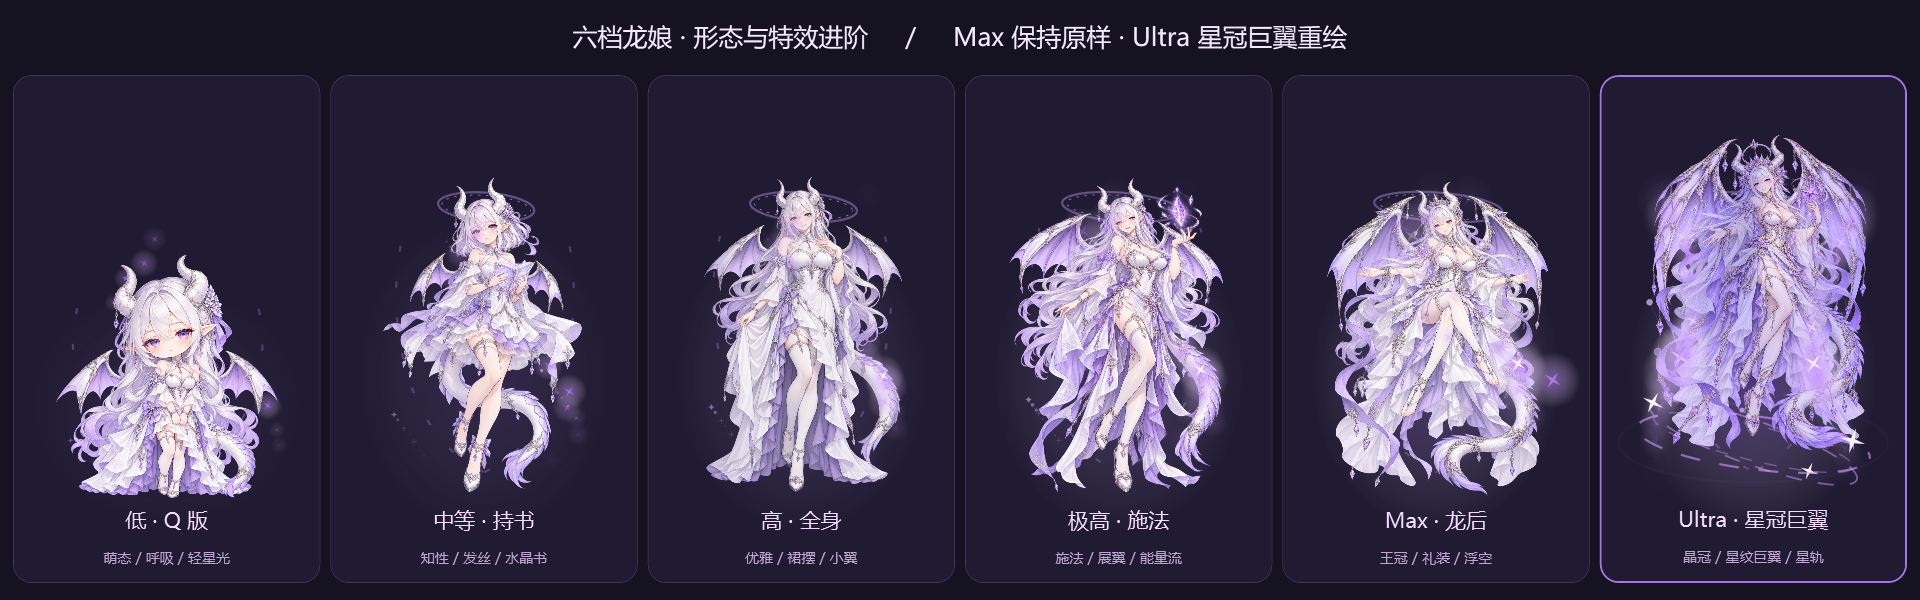
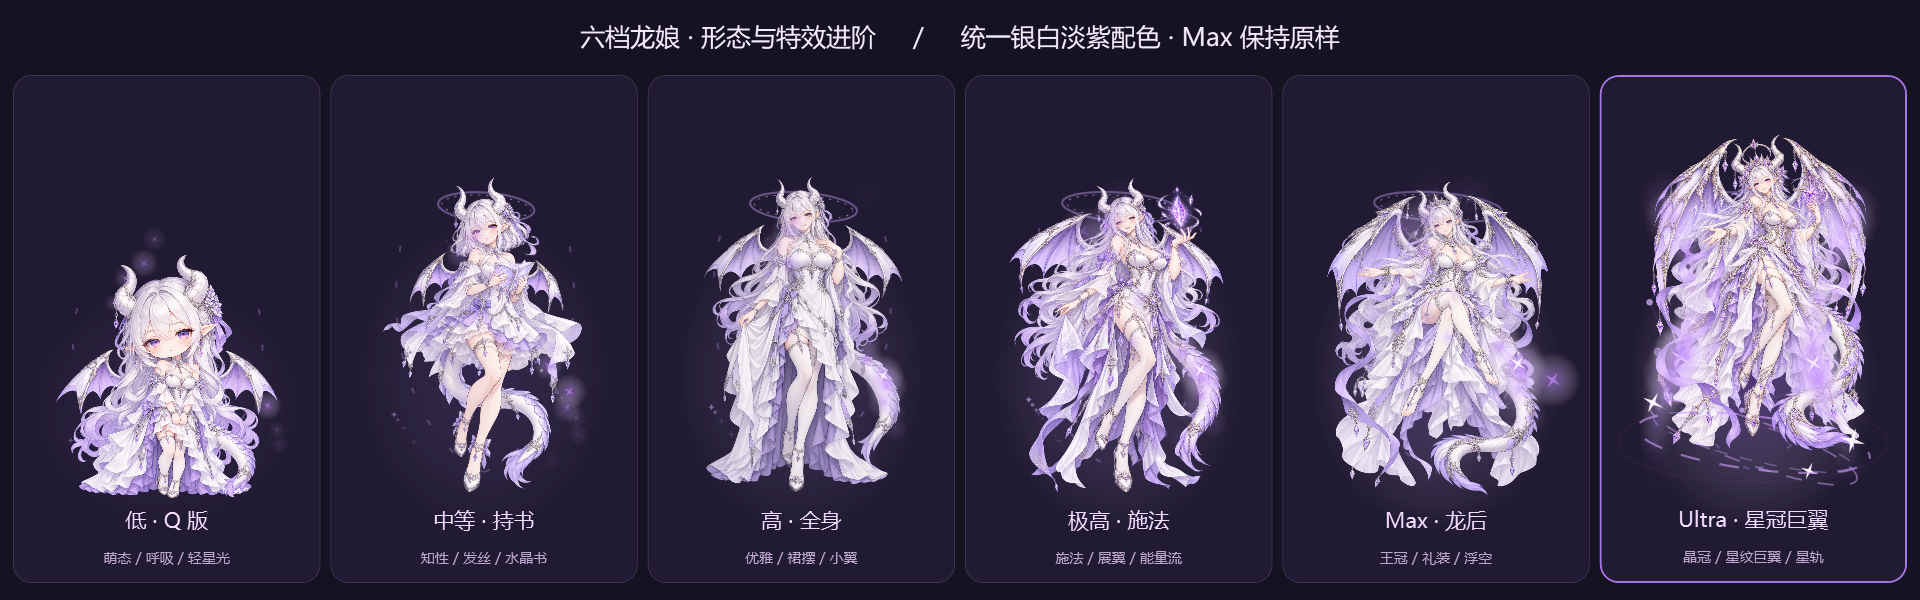
fix: align Ultra lighting with the silver-white lavender palette

Changed region(s): [[0.875, 0.24, 0.9688, 0.75], [0.2812, 0.03, 0.7188, 0.09]]

diff --git a/tests/Comparison.cs b/tests/Comparison.cs
@@ -2,6 +2,6 @@
 class Comparison{
  static Brush B(string c){return new SolidColorBrush((Color)ColorConverter.ConvertFromString(c));}
  static TextBlock Text(string text,double size,string color){return new TextBlock{Text=text,FontSize=size,FontFamily=new FontFamily("Microsoft YaHei UI"),Foreground=B(color),TextAlignment=TextAlignment.Center,Margin=new Thickness(2,5,2,2)};}
- [STAThread]static void Main(string[] args){string root=Path.GetFullPath(args[0]);string output=Path.Combine(root,"out","renders");Directory.CreateDirectory(output);foreach(bool dark in new[]{false,true}){var outer=new Grid{Width=1920,Height=600,Background=B(dark?"#151222":"#ECE8F4")};outer.RowDefinitions.Add(new RowDefinition{Height=new GridLength(70)});outer.RowDefinitions.Add(new RowDefinition{Height=new GridLength(1,GridUnitType.Star)});var heading=Text("六档龙娘 · 形态与特效进阶     /     Max 保持原样 · Ultra 星冠巨翼重绘",25,dark?"#F5E9FF":"#4D3268");heading.VerticalAlignment=VerticalAlignment.Center;outer.Children.Add(heading);var cards=new Grid{Margin=new Thickness(8,0,8,12)};Grid.SetRow(cards,1);outer.Children.Add(cards);string[] forms={"chibi","medium","full","xhigh","max","ultra"};string[] labels={"低 · Q 版","中等 · 持书","高 · 全身","极高 · 施法","Max · 龙后","Ultra · 星冠巨翼"};string[] notes={"萌态 / 呼吸 / 轻星光","知性 / 发丝 / 水晶书","优雅 / 裙摆 / 小翼","施法 / 展翼 / 能量流","王冠 / 礼装 / 浮空","晶冠 / 星纹巨翼 / 星轨"};for(int i=0;i<6;i++){cards.ColumnDefinitions.Add(new ColumnDefinition());var content=new Grid();content.RowDefinitions.Add(new RowDefinition{Height=new GridLength(1,GridUnitType.Star)});content.RowDefinitions.Add(new RowDefinition{Height=new GridLength(42)});content.RowDefinitions.Add(new RowDefinition{Height=new GridLength(38)});var border=new Border{CornerRadius=new CornerRadius(18),Margin=new Thickness(5),Background=B(dark?"#211A33":"#FAF8FF"),BorderBrush=B(i==5?"#A575E3":dark?"#463453":"#D8CCE6"),BorderThickness=new Thickness(i==5?2:1),Child=content};Grid.SetColumn(border,i);cards.Children.Add(border);var p=new AnimatedPortrait{MotionEnabled=false,Margin=new Thickness(4)};p.Form=forms[i];p.Source=new BitmapImage(new Uri(Path.Combine(root,"assets",forms[i]+".png")));typeof(AnimatedPortrait).GetField("switchedAt",BindingFlags.NonPublic|BindingFlags.Instance).SetValue(p,-100.0);content.Children.Add(p);var label=Text(labels[i],21,dark?"#F2DBFF":"#613781");Grid.SetRow(label,1);content.Children.Add(label);var note=Text(notes[i],14,dark?"#BDA7CF":"#8B739E");Grid.SetRow(note,2);content.Children.Add(note);outer.Measure(new Size(1920,600));outer.Arrange(new Rect(0,0,1920,600));outer.UpdateLayout();p.Step(1.7);}
+ [STAThread]static void Main(string[] args){string root=Path.GetFullPath(args[0]);string output=Path.Combine(root,"out","renders");Directory.CreateDirectory(output);foreach(bool dark in new[]{false,true}){var outer=new Grid{Width=1920,Height=600,Background=B(dark?"#151222":"#ECE8F4")};outer.RowDefinitions.Add(new RowDefinition{Height=new GridLength(70)});outer.RowDefinitions.Add(new RowDefinition{Height=new GridLength(1,GridUnitType.Star)});var heading=Text("六档龙娘 · 形态与特效进阶     /     统一银白淡紫配色 · Max 保持原样",25,dark?"#F5E9FF":"#4D3268");heading.VerticalAlignment=VerticalAlignment.Center;outer.Children.Add(heading);var cards=new Grid{Margin=new Thickness(8,0,8,12)};Grid.SetRow(cards,1);outer.Children.Add(cards);string[] forms={"chibi","medium","full","xhigh","max","ultra"};string[] labels={"低 · Q 版","中等 · 持书","高 · 全身","极高 · 施法","Max · 龙后","Ultra · 星冠巨翼"};string[] notes={"萌态 / 呼吸 / 轻星光","知性 / 发丝 / 水晶书","优雅 / 裙摆 / 小翼","施法 / 展翼 / 能量流","王冠 / 礼装 / 浮空","晶冠 / 星纹巨翼 / 星轨"};for(int i=0;i<6;i++){cards.ColumnDefinitions.Add(new ColumnDefinition());var content=new Grid();content.RowDefinitions.Add(new RowDefinition{Height=new GridLength(1,GridUnitType.Star)});content.RowDefinitions.Add(new RowDefinition{Height=new GridLength(42)});content.RowDefinitions.Add(new RowDefinition{Height=new GridLength(38)});var border=new Border{CornerRadius=new CornerRadius(18),Margin=new Thickness(5),Background=B(dark?"#211A33":"#FAF8FF"),BorderBrush=B(i==5?"#A575E3":dark?"#463453":"#D8CCE6"),BorderThickness=new Thickness(i==5?2:1),Child=content};Grid.SetColumn(border,i);cards.Children.Add(border);var p=new AnimatedPortrait{MotionEnabled=false,Margin=new Thickness(4)};p.Form=forms[i];p.Source=new BitmapImage(new Uri(Path.Combine(root,"assets",forms[i]+".png")));typeof(AnimatedPortrait).GetField("switchedAt",BindingFlags.NonPublic|BindingFlags.Instance).SetValue(p,-100.0);content.Children.Add(p);var label=Text(labels[i],21,dark?"#F2DBFF":"#613781");Grid.SetRow(label,1);content.Children.Add(label);var note=Text(notes[i],14,dark?"#BDA7CF":"#8B739E");Grid.SetRow(note,2);content.Children.Add(note);outer.Measure(new Size(1920,600));outer.Arrange(new Rect(0,0,1920,600));outer.UpdateLayout();p.Step(1.7);}
  outer.UpdateLayout();var bitmap=new RenderTargetBitmap(1920,600,96,96,PixelFormats.Pbgra32);bitmap.Render(outer);var enc=new PngBitmapEncoder();enc.Frames.Add(BitmapFrame.Create(bitmap));using(var f=File.Create(Path.Combine(output,dark?"six-forms-dark.png":"six-forms-light.png")))enc.Save(f);}Console.WriteLine("PASS native six-form comparison rendered on light and dark backgrounds");}
 }

diff --git a/src/AnimatedPortrait.cs b/src/AnimatedPortrait.cs
@@ -1,6 +1,7 @@
 using System;using System.Collections.Generic;using System.Diagnostics;using System.Windows;using System.Windows.Controls;using System.Windows.Media;using System.Windows.Media.Imaging;using System.Windows.Media.Media3D;
 namespace DragonCompanion {
 // GPU textured mesh: animate the rendered sprite only. Never edits source images or Codex.
+// All six forms share one light rig so silver-white materials keep the same color family.
 public sealed class AnimatedPortrait:Grid {
  readonly Viewport3D viewport=new Viewport3D();readonly MeshGeometry3D mesh=new MeshGeometry3D();readonly OrthographicCamera camera=new OrthographicCamera();readonly Aura aura;readonly Stars stars;readonly Stopwatch clock=Stopwatch.StartNew();readonly List<Point> rest=new List<Point>();BitmapImage source;string kind="full";double aspect=1,lastFrame=-1;bool attached;double switchedAt=-100,reactedAt=-100;int reaction;public bool EconomyMode;readonly DirectionalLight keyLight=new DirectionalLight(Colors.White,new Vector3D(-.3,-.4,-1));readonly AmbientLight fillLight=new AmbientLight(Color.FromRgb(165,165,180));
  public int Tier{get{return kind=="chibi"?0:kind=="medium"?1:kind=="full"?2:kind=="xhigh"?3:kind=="max"?4:5;}}
@@ -24,7 +25,7 @@ public sealed class AnimatedPortrait:Grid {
  Point[] Eyes(){if(kind=="chibi")return new[]{new Point(.449,.364),new Point(.574,.323)};if(kind=="ultra")return new[]{new Point(.482,.211),new Point(.550,.204)};return new[]{new Point(.465,.155),new Point(.550,.144)};}
  static double G(double u,double v,double x,double y,double rx,double ry){double dx=(u-x)/rx,dy=(v-y)/ry;return Math.Exp(-2.2*(dx*dx+dy*dy));}
  public static double Blink(double t){double phase=t%5.7;if(phase<3.20||phase>3.48)return 0;double p=(phase-3.20)/.28;return Math.Pow(Math.Sin(p*Math.PI),1.3);}
- public void Step(double t){if(rest.Count==0)return;var points=new Point3DCollection(rest.Count);double age=Math.Max(0,clock.Elapsed.TotalSeconds-switchedAt);double burst=age<.85?Math.Sin(age/.85*Math.PI)*(.13+Tier*.012):0;keyLight.Direction=new Vector3D(Math.Sin(t*.75)*.8,-.4,-1);if(kind=="ultra"){fillLight.Color=Color.FromRgb(104,104,124);keyLight.Color=Color.FromRgb((byte)(132+25*(.5+.5*Math.Sin(t*.9))),(byte)(128+22*(.5+.5*Math.Sin(t*.9))),205);}else{fillLight.Color=Color.FromRgb(165,165,180);keyLight.Color=Color.FromRgb((byte)(180+60*(.5+.5*Math.Sin(t*.9))),(byte)(160+60*(.5+.5*Math.Sin(t*.9))),255);}double blink=Blink(t),breath=Math.Sin(t*1.65),wing=Math.Sin(t*(kind=="ultra"?1.7:1.15)),hair=Math.Sin(t*.85);Point[] eyes=kind=="chibi"?Eyes():new Point[0];foreach(var p in rest){double u=p.X,v=p.Y,x=u,y=v;double body=G(u,v,.5,.52,.28,.32);y-=.0028*breath*body;x+=(u-.5)*.006*breath*body;
+ public void Step(double t){if(rest.Count==0)return;var points=new Point3DCollection(rest.Count);double age=Math.Max(0,clock.Elapsed.TotalSeconds-switchedAt);double burst=age<.85?Math.Sin(age/.85*Math.PI)*(.13+Tier*.012):0;keyLight.Direction=new Vector3D(Math.Sin(t*.75)*.8,-.4,-1);fillLight.Color=Color.FromRgb(165,165,180);keyLight.Color=Color.FromRgb((byte)(180+60*(.5+.5*Math.Sin(t*.9))),(byte)(160+60*(.5+.5*Math.Sin(t*.9))),255);double blink=Blink(t),breath=Math.Sin(t*1.65),wing=Math.Sin(t*(kind=="ultra"?1.7:1.15)),hair=Math.Sin(t*.85);Point[] eyes=kind=="chibi"?Eyes():new Point[0];foreach(var p in rest){double u=p.X,v=p.Y,x=u,y=v;double body=G(u,v,.5,.52,.28,.32);y-=.0028*breath*body;x+=(u-.5)*.006*breath*body;
   if(kind=="chibi"){
    x+=.012*Math.Sin(t*1.2+v*4)*G(u,v,.83,.76,.2,.26); // tail sway
    double head=G(u,v,.50,.24,.46,.37),angle=.012*Math.Sin(t*.63);x+=-(v-.30)*angle*head;y+=(u-.5)*angle*head;

diff --git a/src/App.cs b/src/App.cs
@@ -19,7 +19,7 @@ public sealed class VisualWindow:Window {
  void Press(object sender,MouseButtonEventArgs e){if(FromSlider(e.OriginalSource as DependencyObject))return;pressed=true;dragged=false;pressScreen=PointToScreen(e.GetPosition(this));pressLeft=Left;pressTop=Top;CaptureMouse();e.Handled=true;}
  void Move(object sender,MouseEventArgs e){if(!pressed||locked||e.LeftButton!=MouseButtonState.Pressed)return;Point now=PointToScreen(e.GetPosition(this));Vector delta=now-pressScreen;if(!dragged&&delta.Length<6)return;dragged=true;var source=PresentationSource.FromVisual(this);if(source!=null)delta=source.CompositionTarget.TransformFromDevice.Transform(delta);Left=pressLeft+delta.X;Top=pressTop+delta.Y;}
  void Release(object sender,MouseButtonEventArgs e){if(!pressed)return;bool reply=!dragged;Point pt=e.GetPosition(portrait);pressed=false;ReleaseMouseCapture();if(dragged){Clamp();SaveOwnSettings();}else if(reply&&pt.X>=0&&pt.Y>=0&&pt.X<portrait.ActualWidth&&pt.Y<portrait.ActualHeight)portrait.React();e.Handled=true;}
- void WriteDisplayState(string effort,bool inherited,bool connected){string stamp=selected+"/"+effort+"/"+inherited+"/"+connected+"/"+autoMode+"/"+auto.Hint+"/"+economy;if(stamp==stateStamp)return;try{string dir=Path.Combine(root,"runtime");Directory.CreateDirectory(dir);string file=Path.Combine(dir,"display-state.json"),tmp=file+".tmp";File.WriteAllText(tmp,Json.Encode(new{version="1.4.0",readOnly=true,threadId=selected,effort=effort,inherited=inherited,connected=connected,form=DisplayState.Form(effort),motionEnabled=portrait.MotionEnabled,autoFollow=autoMode,followSource=autoMode?auto.Source:"manual",followHint=autoMode?auto.Hint:"手动选择",economy=economy,utc=DateTime.UtcNow.ToString("O")}));if(File.Exists(file))File.Replace(tmp,file,null);else File.Move(tmp,file);stateStamp=stamp;}catch{}}
+ void WriteDisplayState(string effort,bool inherited,bool connected){string stamp=selected+"/"+effort+"/"+inherited+"/"+connected+"/"+autoMode+"/"+auto.Hint+"/"+economy;if(stamp==stateStamp)return;try{string dir=Path.Combine(root,"runtime");Directory.CreateDirectory(dir);string file=Path.Combine(dir,"display-state.json"),tmp=file+".tmp";File.WriteAllText(tmp,Json.Encode(new{version="1.4.1",readOnly=true,threadId=selected,effort=effort,inherited=inherited,connected=connected,form=DisplayState.Form(effort),motionEnabled=portrait.MotionEnabled,autoFollow=autoMode,followSource=autoMode?auto.Source:"manual",followHint=autoMode?auto.Hint:"手动选择",economy=economy,utc=DateTime.UtcNow.ToString("O")}));if(File.Exists(file))File.Replace(tmp,file,null);else File.Move(tmp,file);stateStamp=stamp;}catch{}}
  void LoadCatalog(){try{entries=Catalog.Threads(home);var x=entries.Find(e=>e.Id==selected);if(x!=null)selectedTitle=x.Title;}catch(Exception e){Log("catalog",e.GetType().Name);} }
  void UpdateTarget(){target.Text=(autoMode?"自动 · ":"手动 · ")+selectedTitle;badge.ToolTip="只读跟随："+selectedTitle+"\n不修改 Codex 的模型或思考档位\n点击角色有回应；拖动移动位置\n右键可切换模式、聊天或退出";}
  void SetForm(string k){if(!images.ContainsKey(k))return;if(form!=k){portrait.Form=k;portrait.Source=images[k];form=k;}portrait.Opacity=1;}

diff --git a/docs/architecture.md b/docs/architecture.md
@@ -4,7 +4,7 @@
 - `AutoFollow.cs`：从正在运行的 Codex 安装路径发现宿主；只读解析主窗口日志的 ownerRoutePath。只支持已验证的主窗口及 /local/UUID 路由。读取有大小上限，日志以 ReadWrite/Delete 共享方式短时打开。
 - `DesktopLink.cs`：命名管道连接与超时。唯一允许发出的请求是 initialize 和 thread-follower-read-model-settings。其他请求在发送之前抛出异常；不声明任何聊天所有权，也不处理桌面端分发给其他客户端的工作。
 - `Catalog.cs`：通过 Windows 自带 SQLite 查询有限聊天标题元数据，SQLITE_OPEN_READONLY 并检查 sqlite3_db_readonly。默认档位仅从 CODEX_HOME 的配置只读继承。
-- `AnimatedPortrait.cs`：纹理网格、光照与矢量星光；隐藏时停止动画，最多 30 帧，粒子数量有界。Ultra 使用独立照明和特效分支。
+- `AnimatedPortrait.cs`：纹理网格、光照与矢量星光；隐藏时停止动画，最多 30 帧，粒子数量有界。六档共享照明参数以保持银白、淡紫配色一致；Ultra 保留独立特效分支。
 
 不修改桌面端安装文件、不持有其安装文件句柄、不联网，不与其更新器交互。初始化连接本身仍使用内部桌面协议，因此这里保证的是隔离及失败暂停策略，不是未知未来版本的兼容承诺。
 

diff --git a/形态对比说明.md b/形态对比说明.md
@@ -1,4 +1,4 @@
-# 六档形态对比与调整
+# 六档形态对比与调整
 
 | 档位 | 主要视觉进阶 | 处理 |
 |---|---|---|
@@ -14,3 +14,7 @@
 新 Ultra 强化独立轮廓和材质层次，突出晶冠、巨翼、星纹和法器；降低过曝，星光避开面部与躯干中央，增强脚下轨道和背后星座阵。美观有个人偏好，提供浅色、深色两套同尺寸实际渲染对照，便于判断。
 
 验证：前五档素材哈希不变；三个相同时刻的渲染逐像素不变，包括 Max。六档均通过动态像素变化检查。Ultra 新素材含透明 alpha。显示算法外的聊天跟随、只读白名单和桌面端配置不作改动。
+
+## v1.4.1 配色修正
+
+上一版 Ultra 的独立低亮度、偏蓝灯光使银白衣料显得偏暗偏紫。现在六档共享相同的照明参数；六张原始立绘及 alpha 完全保留，Max 与前四档实际画面保持不变。巨翼、星座阵、点击回应和自动跟随逻辑不变。

diff --git a/docs/verification.md b/docs/verification.md
@@ -28,3 +28,9 @@
 - 未做长期压力、实体多显示器切换及所有 DPI/显卡组合验证。
 - 自动跟随不支持多窗口歧义、远程聊天、非主窗口及未知路由/协议；遇到这些情况会等待而非猜测。
 - 原生思考滑块提交前的临时位置不会逐点跟随。纯视觉预览滑块立即响应，且不修改任何思考设置。
+
+## v1.4.1 配色回归检查
+
+- Ultra 改为与前五档共享同一套照明参数，消除独立低亮度、偏蓝灯光造成的衣料色偏。
+- 六张原始 PNG 的 SHA-256 全部不变，包括 Ultra；前五档在三个时刻的动态渲染像素全部不变。
+- 重新检查深浅背景下的六档对照，22 项离线契约和六档动态渲染通过。

diff --git a/README.md b/README.md
@@ -1,8 +1,10 @@
 # Codex 龙娘思考动态效果
 
-独立的 Windows 桌面龙娘伴随程序：**只读跟随 Codex 当前本地聊天的思考档位**，展示六种形态及动画。当前版本 **1.4.0**。
+独立的 Windows 桌面龙娘伴随程序：**只读跟随 Codex 当前本地聊天的思考档位**，展示六种形态及动画。当前版本 **1.4.1**。
 
 ![六档形态](docs/images/six-forms-dark.png)
+
+v1.4.1 修正 Ultra 偏暗、偏蓝的问题：六档共享银白、淡紫基准照明。现有六张立绘（包括 Max 和 Ultra）、巨翼、点击回应与星光设计均保留。
 
 | 思考档位 | 龙娘形态 | 视觉效果 |
 |---|---|---|
